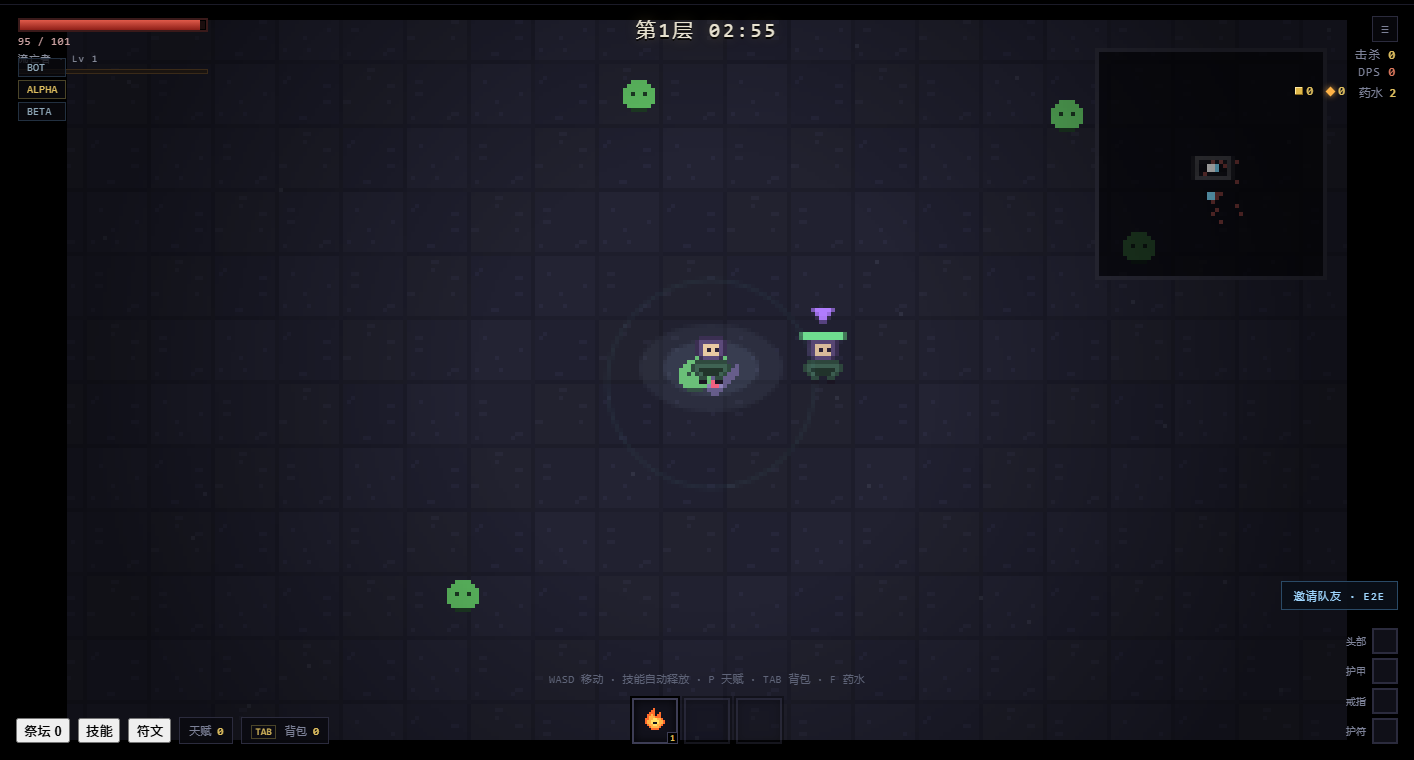
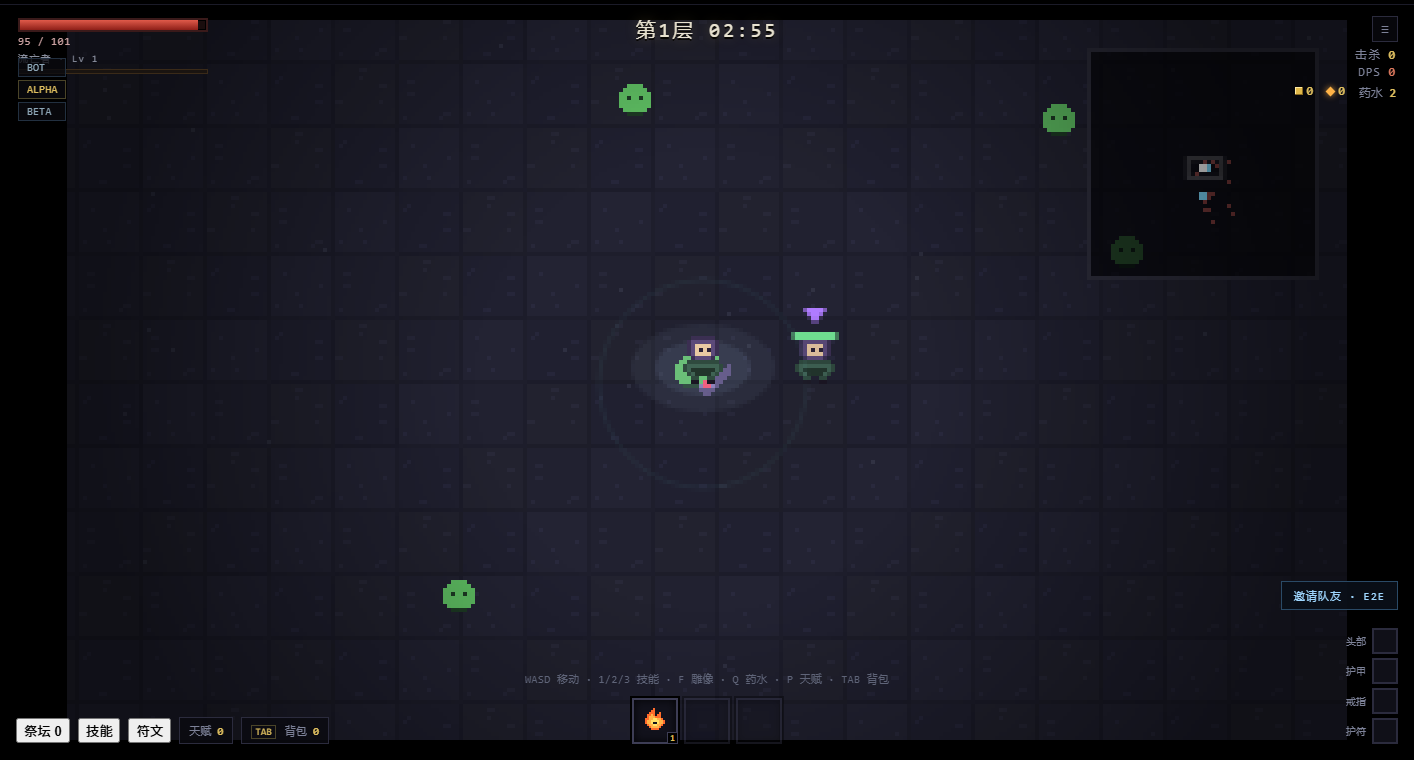
feat: 打宝雕像 + SSS 评分系统
F 启动雕像，七档评分 D~SSS，增益随档位提升
评分提高刷怪速度与精英率，5 秒不杀清零
药水键 F→Q 避让
测试: 33/33 多人断言

diff --git a/js/sim.js b/js/sim.js
@@ -98,6 +98,8 @@
       shop: [], marketStock: [],
       rift: null, riftChoices: [], bossKills: 0, dailyKey: '', started: false,
       event: null, eventCd: 40,
+      statue: { x: CFG.worldSize / 2 + 120, y: CFG.worldSize / 2 - 90, on: false },
+      rate: { score: 0, rank: 0, idle: 0 },
       meta: metaBonus || { startGold: 0, goldMul: 0, hp: 0, talent: 0, drop: 0, riftChoice: 0, heirloom: 0, frenzy: 0 },
       agg: null, skills: {}, depth: 1,
       cleanAcc: 0
@@ -383,6 +385,7 @@
   function damageEnemy(st, e, dmg, crit, type) {
     if (e.dead) return;
     const caster = st._caster || null;
+    if (st.statue && st.statue.on && st.rate) dmg *= (1 + st.rate.rank * D.STATUE.dmgPerRank);
     const ag = caster && caster.agg ? caster.agg : null;
     if ((e.shock || 0) > 0) dmg *= 1.25;
     if (ag && ag.ampAil > 0 && (e.burn > 0 || e.chill > 0 || (e.shock || 0) > 0)) {
@@ -405,6 +408,14 @@
     e.dead = true;
     st.kills++;
     ev(st, 'kill');
+    if (st.rate && st.statue && st.statue.on) {
+      const add = e.boss ? D.STATUE.scoreBoss : (e.elite ? D.STATUE.scoreElite : D.STATUE.scorePerKill);
+      st.rate.score += add;
+      st.rate.idle = 0;
+      let nr = 0;
+      for (let ri = 1; ri < D.RANK_GATE.length; ri++) if (st.rate.score >= D.RANK_GATE[ri]) nr = ri;
+      st.rate.rank = nr;
+    }
 
     // 经验：范围内的玩家都吃（屏蔽外不吃）
     awardXp(st, e.x, e.y, e.xp * ((st.rift && st.rift.xp) || 1));
@@ -687,6 +698,8 @@
       stepEnemies(st, dt);
       stepShots(st, dt);
       stepEvent(st, dt);
+      stepStatue(st, dt);
+      stepStatue(st, dt);
       stepEnemyShots(st, dt);
       stepZones(st, dt);
       stepPickups(st, dt);
@@ -746,6 +759,14 @@
       p.downed = false;
       p.alive = false;
       ev(st, 'kill');
+    if (st.rate && st.statue && st.statue.on) {
+      const add = e.boss ? D.STATUE.scoreBoss : (e.elite ? D.STATUE.scoreElite : D.STATUE.scorePerKill);
+      st.rate.score += add;
+      st.rate.idle = 0;
+      let nr = 0;
+      for (let ri = 1; ri < D.RANK_GATE.length; ri++) if (st.rate.score >= D.RANK_GATE[ri]) nr = ri;
+      st.rate.rank = nr;
+    }
       if (!st.players.some(function (q) { return q.alive; })) st.phase = 'dead';
     }
   }
@@ -760,7 +781,8 @@
       const len = Math.hypot(mx, my);
       if (len > 0.01) {
         mx /= len; my /= len;
-        const spd = p.speed * (p.frenzyT > 0 ? 1.2 : 1);
+        const stMul = (st.statue && st.statue.on && st.rate) ? (1 + st.rate.rank * D.STATUE.movePerRank) : 1;
+        const spd = p.speed * (p.frenzyT > 0 ? 1.2 : 1) * stMul;
         p.x += mx * spd * dt;
         p.y += my * spd * dt;
         p.face = mx >= 0 ? 1 : -1;
@@ -794,7 +816,8 @@
           if (calc) {
             const ok = fireSkill(st, p, j);
             st._caster = null;
-            s.cd = (ok ? 1 / calc.rate : 0.08) * (p.frenzyT > 0 ? 0.65 : 1);
+            const rateMul = (st.statue && st.statue.on && st.rate) ? (1 + st.rate.rank * D.STATUE.ratePerRank) : 1;
+            s.cd = (ok ? 1 / (calc.rate * rateMul) : 0.08) * (p.frenzyT > 0 ? 0.65 : 1);
           }
         }
       }
@@ -1182,7 +1205,8 @@
   function spawnStep(st, dt) {
     const w = waveAt(st.phaseT);
     const R = st.rift;
-    const bloodmoon = st.event && st.event.type === 'bloodmoon' ? 1.8 : 1;
+    const rankBoost = (st.statue && st.statue.on && st.rate) ? st.rate.rank : 0;
+    const bloodmoon = (st.event && st.event.type === 'bloodmoon' ? 1.8 : 1) * (1 + rankBoost * D.STATUE.spawnPerRank);
     const rate = w.rate * ((R && R.spawn && R.spawn.rate) || 1) * bloodmoon;
     const cap = Math.round(w.cap * ((R && R.spawn && R.spawn.cap) || 1));
     if (st.enemies.length >= cap) return;
@@ -1195,7 +1219,7 @@
       let r = rand(st) * total;
       let typeId = 'slime';
       for (const k in pool) { r -= pool[k]; if (r <= 0) { typeId = k; break; } }
-      const eliteMul = (st.rift && st.rift.elite) || 1;
+      const eliteMul = ((st.rift && st.rift.elite) || 1) * (1 + rankBoost * D.STATUE.elitePerRank);
       const elite = st.phaseT > 40 && rand(st) < Math.min(0.35, 0.05 * eliteMul);
       spawnEnemy(st, typeId, elite);
     }
@@ -1255,6 +1279,36 @@
       const p = st.players[i];
       if (!p.alive) continue;
       if (dist2(p.x, p.y, x, y) <= r2) gainXp(st, p, v);
+    }
+  }
+
+  function activateStatue(st, p) {
+    if (!p) p = localPlayer(st);
+    const s = st.statue;
+    if (!s) return { ok: false, msg: '这里没有雕像' };
+    const d = Math.hypot(p.x - s.x, p.y - s.y);
+    if (d > 52) return { ok: false, msg: '走近雕像再按 F' };
+    if (!s.on) {
+      s.on = true;
+      st.rate.score = 0;
+      st.rate.rank = 0;
+      st.rate.idle = 0;
+      ev(st, 'boss');
+      toast(st, '打宝雕像启动了 — 杀怪冲评级', 'rare');
+      return { ok: true, on: true };
+    }
+    return { ok: true, on: true, msg: '雕像已在运转' };
+  }
+
+  function stepStatue(st, dt) {
+    const s = st.statue;
+    if (!s || !s.on || !st.rate) return;
+    st.rate.idle += dt;
+    if (st.rate.idle >= D.STATUE.idleReset && st.rate.score > 0) {
+      st.rate.score = 0;
+      st.rate.rank = 0;
+      st.rate.idle = 0;
+      toast(st, '评级中断', 'bad');
     }
   }
 
@@ -1623,7 +1677,8 @@
     localPlayer: localPlayer, setLocal: setLocal, alivePlayers: alivePlayers,
     addPlayer: addPlayer, removePlayer: removePlayer, applyPlayerDetails: applyPlayerDetails,
     classOf: classOf, setClass: setClass, enhance: enhance, salvage: salvage, dropItem: dropItem,
-    setRune: setRune, runeModsOf: runeModsOf, pickRogue: pickRogue, rogueModsOf: rogueModsOf, castSkill: castSkill, setSupport: setSupport, autoCast: autoCast,
+    setRune: setRune, runeModsOf: runeModsOf, pickRogue: pickRogue, rogueModsOf: rogueModsOf,
+    activateStatue: activateStatue, castSkill: castSkill, setSupport: setSupport, autoCast: autoCast,
     addSkill: addSkill,
     allocate: allocate, resetTalents: resetTalents, drinkPotion: drinkPotion,
     equip: equip, unequip: unequip, sellItem: sellItem, buyItem: buyItem, buyPotion: buyPotion,

diff --git a/js/main.js b/js/main.js
@@ -185,6 +185,11 @@
       const k = ev.key.toLowerCase();
       keys[k] = true;
       if (UI.isOpen()) return;
+      if (k === 'f') {
+        const rs = ACT.run(st, 'statue', []);
+        if (rs && !rs.ok && rs.msg) UI.toast(rs.msg, 'bad');
+        return;
+      }
       if (k === 'm') { RENDER.toggleMinimap(); return; }
       if (k === '1' || k === '2' || k === '3') {
         const slot = parseInt(k, 10) - 1;
@@ -207,7 +212,7 @@
           } else doInteract();
         } else doInteract();
       }
-      if (k === 'f') { if (ACT.run(st, 'potion', [])) UI.toast('饮下药水'); }
+      if (k === 'q') { if (ACT.run(st, 'potion', [])) UI.toast('饮下药水'); }
     });
     window.addEventListener('keyup', function (ev) { keys[ev.key.toLowerCase()] = false; });
     window.addEventListener('blur', function () { for (const k in keys) keys[k] = false; });
@@ -475,7 +480,15 @@
   }
 
   let rogueDebugDone = false;
+  let statueDebugDone = false;
   function handlePhase() {
+    if (params.get('statue') === '1' && !statueDebugDone && st.statue) {
+      statueDebugDone = true;
+      const sp = st.players[0];
+      sp.x = st.statue.x + 10;
+      sp.y = st.statue.y + 10;
+      SIM.activateStatue(st, sp);
+    }
     if (params.get('rogue') === '1' && st.phase === 'rift' && st.riftChoices && st.riftChoices.length) { SIM.chooseRift(st, 0); return; }
     if (params.get('rogue') === '1' && !rogueDebugDone && st.phase === 'combat' && st.player && SIM.classOf(st.player).rogue) {
       rogueDebugDone = true;

diff --git a/js/data.js b/js/data.js
@@ -409,6 +409,22 @@
     { id: 'pierce', name: '穿透', mods: [{ k: 'pierce', v: 2 }, { k: 'dmg', v: -0.12 }], desc: '穿透 +2，伤害 -12%' }
   ];
 
+  /* ---------------- 打宝雕像 / 评分 ---------------- */
+  const RANKS = ['D', 'C', 'B', 'A', 'S', 'SS', 'SSS'];
+  const RANK_GATE = [0, 18, 40, 75, 120, 190, 280];
+  const RANK_COLOR = ['#6f7a90', '#9fd7ff', '#6fdc8f', '#ffd54f', '#ff8a3d', '#ff5c5c', '#b07cff'];
+  const STATUE = {
+    idleReset: 5,
+    dmgPerRank: 0.12,
+    movePerRank: 0.04,
+    ratePerRank: 0.06,
+    spawnPerRank: 0.35,
+    elitePerRank: 0.40,
+    scorePerKill: 1,
+    scoreElite: 5,
+    scoreBoss: 20
+  };
+
   /* ---------------- 局内 3 选 1（变数职业专属） ---------------- */
   const ROGUE_UPGRADES = [
     { id: 'might', name: '蛮力', color: '#e05c4a', desc: '伤害 +35%', mods: [{ k: 'inc', t: 'all', v: 0.35 }] },
@@ -459,7 +475,7 @@
     ELE, TYPE_CN, SKILLS, SKILL_IDS, MAX_SKILL_LEVEL,
     AFFIXES, SLOTS, SLOT_CN, SLOT_ICON, RARITY_CN, RARITY_COLOR, BASE_NAMES, LEGENDARIES,
     TREES: TREES, TALENT_INDEX: TALENT_INDEX, TIER_GATE: TIER_GATE,
-    RIFTS: RIFTS, RESONANCE: RESONANCE, CLASSES: CLASSES, SUPPORTS: SUPPORTS, ROGUE_UPGRADES: ROGUE_UPGRADES,
+    RIFTS: RIFTS, RESONANCE: RESONANCE, CLASSES: CLASSES, SUPPORTS: SUPPORTS, ROGUE_UPGRADES: ROGUE_UPGRADES, RANKS: RANKS, RANK_GATE: RANK_GATE, RANK_COLOR: RANK_COLOR, STATUE: STATUE,
     ENEMIES, ELITE_MODS, WAVES, TOWN, PRICES, CONFIG
   };
 })(window);

diff --git a/js/render.js b/js/render.js
@@ -315,6 +315,7 @@
     // 主角永远画在最上层，避免被怪群淹没
     drawOthers(st, time);
     drawPlayer(st, time);
+    drawStatue(st, time);
     drawMinimap(st, time);
 
     if (isTown) drawNpcs(st, time);
@@ -649,6 +650,30 @@
     }
   }
 
+  function drawStatue(st, time) {
+    const s = st.statue;
+    if (!s || st.phase === 'town') return;
+    const x = sx(s.x), y = sy(s.y);
+    if (x < -30 || x > W + 30 || y < -40 || y > H + 30) return;
+    // 底座
+    ctx.fillStyle = '#2a2436';
+    ctx.fillRect(x - 7, y + 2, 14, 4);
+    // 柱身
+    ctx.fillStyle = s.on ? '#5a4a7a' : '#3a3448';
+    ctx.fillRect(x - 4, y - 18, 8, 20);
+    // 顶部宝石
+    const pulse = 0.5 + 0.5 * Math.sin(time * 4);
+    ctx.globalAlpha = s.on ? 0.9 : 0.45;
+    ctx.fillStyle = s.on ? D.RANK_COLOR[st.rate.rank] : '#6f7a90';
+    ctx.fillRect(x - 3, y - 24, 6, 5);
+    if (s.on) {
+      ctx.globalAlpha = 0.18 + pulse * 0.22;
+      ctx.beginPath();
+      ctx.arc(x, y - 10, 16 + pulse * 6, 0, 6.2832);
+      ctx.fill();
+    }
+    ctx.globalAlpha = 1;
+  }
   let minimapOn = true;
 
   function drawMinimap(st, time) {

diff --git a/test/mp.js b/test/mp.js
@@ -184,5 +184,20 @@ T('升级后出现 3 个选项', !!(prg.rogueChoices && prg.rogueChoices.length 
 const incBefore = prg.agg.inc.all || 0;
 const rp = SIM.pickRogue(stRg, 0, prg);
 T('选择后生效并清空选项', !!(rp && rp.ok && prg.rogueChoices === null && Object.keys(prg.roguePicks).length === 1), 'picks=' + JSON.stringify(prg.roguePicks));
+// 打宝雕像
+const stSt = SIM.create(121, 1);
+SIM.chooseRift(stSt, 0);
+const pst = stSt.players[0];
+const far = SIM.activateStatue(stSt, pst);
+T('离雕像太远无法开启', !!(far && !far.ok), 'msg=' + (far && far.msg));
+pst.x = stSt.statue.x + 8;
+pst.y = stSt.statue.y + 8;
+const near = SIM.activateStatue(stSt, pst);
+T('靠近后按 F 开启雕像', !!(near && near.ok && stSt.statue.on === true), 'on=' + stSt.statue.on);
+stSt.rate.score = 130;
+stSt.rate.rank = 5;
+stSt.rate.idle = 0;
+for (let i = 0; i < 400; i++) SIM.step(stSt, STEP, {});
+T('5 秒不杀怪评级清零', stSt.rate.score === 0 && stSt.rate.rank === 0, 'score=' + stSt.rate.score);
 console.log('\n' + pass + '/' + (pass + fail) + ' passed');
 process.exit(fail === 0 ? 0 : 1);

diff --git a/js/hostcore.js b/js/hostcore.js
@@ -34,6 +34,7 @@
     return {
       t: st.phase, pt: r1(st.phaseT), cy: st.cycle, near: st.nearNpc || 0, k: st.kills,
       ps: ps, es: es, ss: ss, gs: gs, ev: (st.events || []).slice(0, 12), rf: st.rift ? st.rift.name : '',
+      rk: st.rate ? st.rate.rank : 0, ron: st.statue && st.statue.on ? 1 : 0, rs: st.rate ? Math.round(st.rate.score) : 0,
       evt: st.event ? [st.event.type, Math.max(0, Math.round(st.event.t))] : null,
       eh: (st.eshots || []).map(function (s) { return [r1(s.x), r1(s.y)]; })
     };
@@ -69,6 +70,9 @@
     view.phaseT = snap.pt;
     view.kills = snap.k || 0;
     view.riftName = snap.rf || '';
+    view.rateRank = snap.rk || 0;
+    view.statueOn = !!snap.ron;
+    view.rateScore = snap.rs || 0;
     view.event = snap.evt || null;
     view.cycle = snap.cy;
     view.nearNpc = snap.near || null;

diff --git a/index.html b/index.html
@@ -23,6 +23,7 @@
     </div>
     <div id="timer">第1层 03:00</div>
     <div id="evchip" class="hidden"></div>
+    <div id="rankchip" class="hidden"></div>
     <button id="gear-btn" title="设置">≡</button>
   </div>
 
@@ -52,7 +53,7 @@
   <button id="invite" class="hidden">邀请队友</button>
   <div id="tip" class="hidden"></div>
   <div id="prompt" class="hidden"></div>
-  <div id="hint">WASD 移动 · 技能自动释放 · P 天赋 · TAB 背包 · F 药水</div>
+  <div id="hint">WASD 移动 · 1/2/3 技能 · F 雕像 · Q 药水 · P 天赋 · TAB 背包</div>
   <div id="toasts"></div>
 
   <div id="joystick" class="hidden"><div id="knob"></div></div>

diff --git a/js/ui.js b/js/ui.js
@@ -189,6 +189,20 @@
       cl.textContent = (cdef ? cdef.name : '流亡者') + ' · Lv ' + p.level;
     }
 
+    // 打宝评分
+    const rk = $('rankchip');
+    if (rk) {
+      const rank = st.rateRank || 0;
+      const on = st.statueOn || (st.statue && st.statue.on);
+      if (on) {
+        rk.classList.remove('hidden');
+        rk.textContent = D.RANKS[rank] + '  ' + (st.rateScore || (st.rate && st.rate.score) || 0);
+        rk.style.color = D.RANK_COLOR[rank];
+      } else if (!rk.classList.contains('hidden')) {
+        rk.classList.add('hidden');
+      }
+    }
+
     // 事件提示
     const chip = $('evchip');
     if (chip) {

diff --git a/styles.css b/styles.css
@@ -432,3 +432,12 @@ body.touch #joystick { display: block; }
 .irow .mini { flex: 0 0 auto; }
 
 .irow .mini { font-size: 10px; padding: 1px 4px; margin-left: 2px; line-height: 1.3; }
+
+/* 打宝评分 */
+#rankchip {
+  position: absolute; top: 58px; left: 50%; transform: translateX(-50%);
+  font-size: 15px; letter-spacing: .3em; font-weight: bold;
+  padding: 3px 14px; border: 1px solid currentColor;
+  background: rgba(8,8,12,.8); pointer-events: none;
+}
+#rankchip.hidden { display: none; }

diff --git a/js/act.js b/js/act.js
@@ -40,6 +40,7 @@
       case 'cast': return SIM.castSkill(st, a[0], p);
       case 'support': return SIM.setSupport(st, a[0], a[1], p);
       case 'rogue': return SIM.pickRogue(st, a[0], p);
+      case 'statue': return SIM.activateStatue(st, p);
       case 'potion': return SIM.drinkPotion(st, p);
       case 'leave': return SIM.interact(st);
       case 'take': return SIM.takeItem(st, p);

diff --git a/CHANGELOG.md b/CHANGELOG.md
@@ -2,6 +2,17 @@
 
 本项目从零开始，逐轮迭代。下面按实际完成的顺序记录，方便回溯每个版本改变了什么。
 
+## 1.17.0 — 打宝雕像与评分
+
+- 战斗场地中央偏右有一尊**打宝雕像**，走近按 **F** 启动
+- 启动后杀怪累积评分：**D / C / B / A / S / SS / SSS** 七档（门槛 0/18/40/75/120/190/280）
+- 评分越高增益越强：每档 +12% 伤害、+4% 移速、+6% 攻速
+- 评分越高**刷怪速度 +35%/档、精英率 +40%/档**
+- **5 秒内没有击杀则评分清零**，逼你不停手
+- 每次波次开始雕像自动关闭、评分归零，需要重新启动
+- 药水键从 F 改到 **Q**（F 让给雕像），底部提示同步更新
+- 测试：远处无法开启、靠近可开启、5 秒断档清零
+
 ## 1.16.0 — 新职业「变数」
 
 - 第 5 个职业：每级弹出 **3 选 1**（8 种局内强化：蛮力/狂乱/毁灭/泰坦/疾影/孤注/寒心/贪欲）
